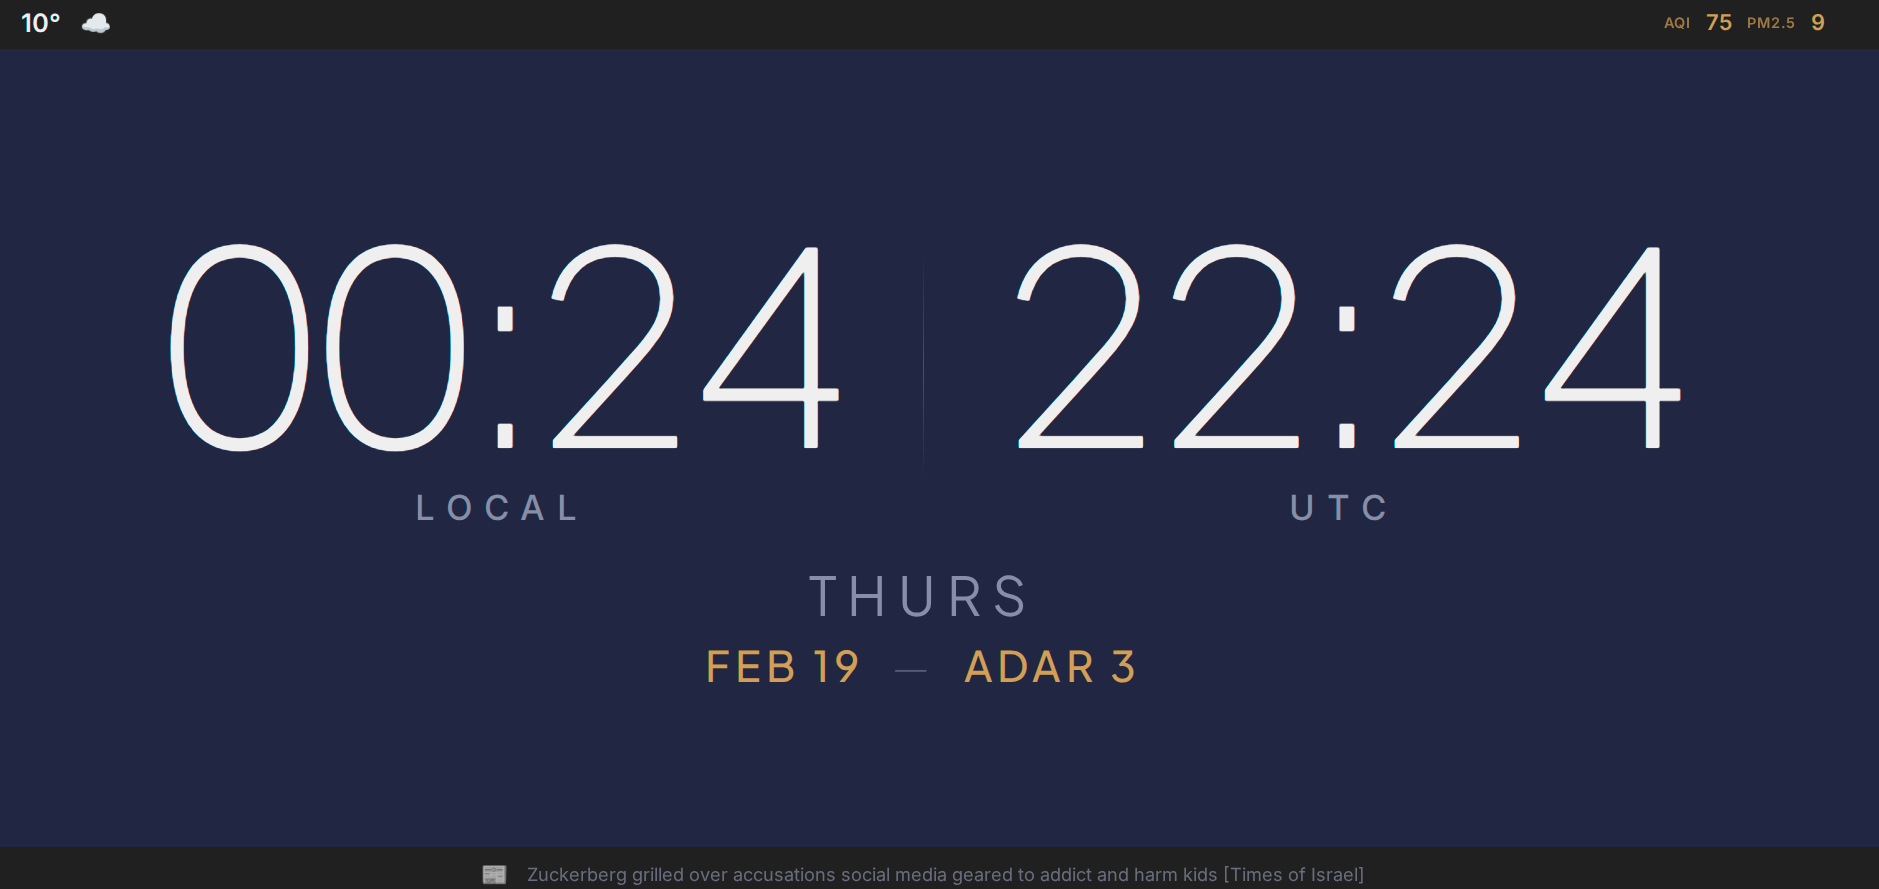
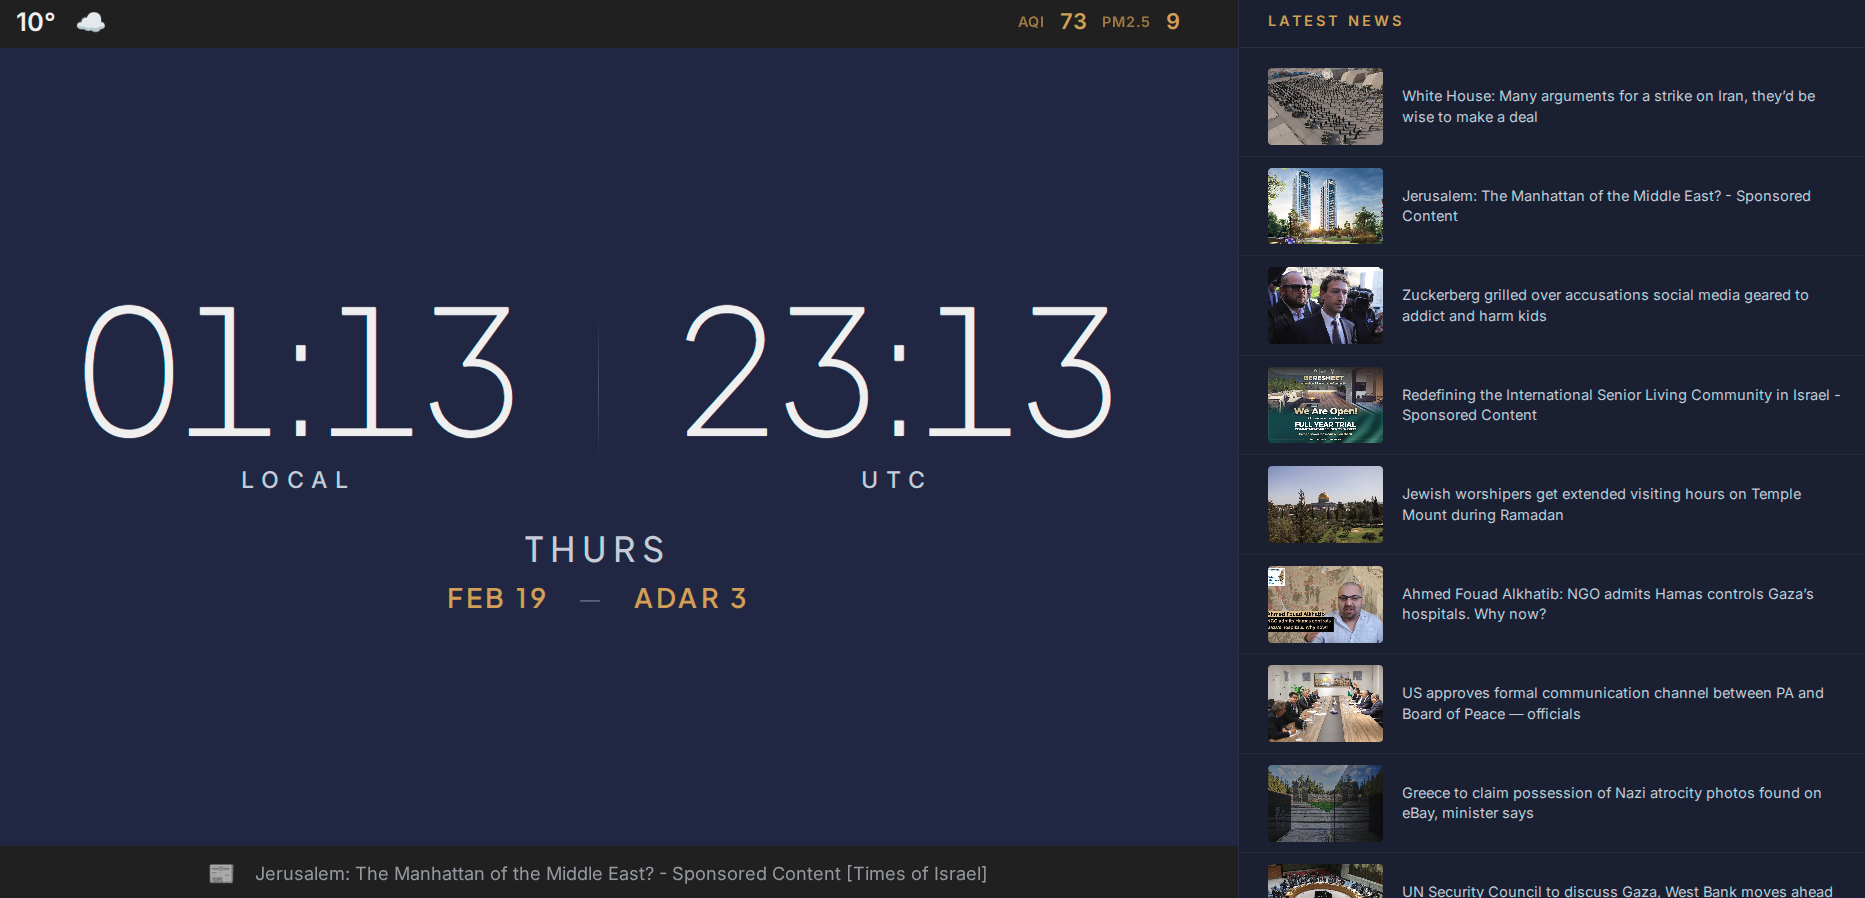
Update README screenshot to 2.png

diff --git a/README.md b/README.md
@@ -2,7 +2,7 @@
 
 A Raspberry Pi dashboard clock displaying dual time zones (Jerusalem local + UTC), weather, air quality, Hebrew calendar dates, Pikud HaOref red alerts, and Times of Israel headlines. Automatically switches to Shabbat mode with parasha and candle lighting/havdalah times.
 
-![Pi Time Zone Clock](screenshots/1.png)
+![Pi Time Zone Clock](screenshots/2.png)
 
 ## Features
 
